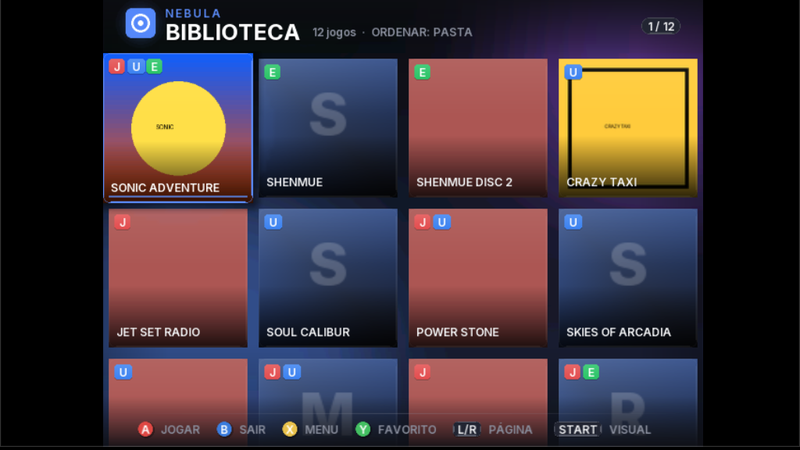
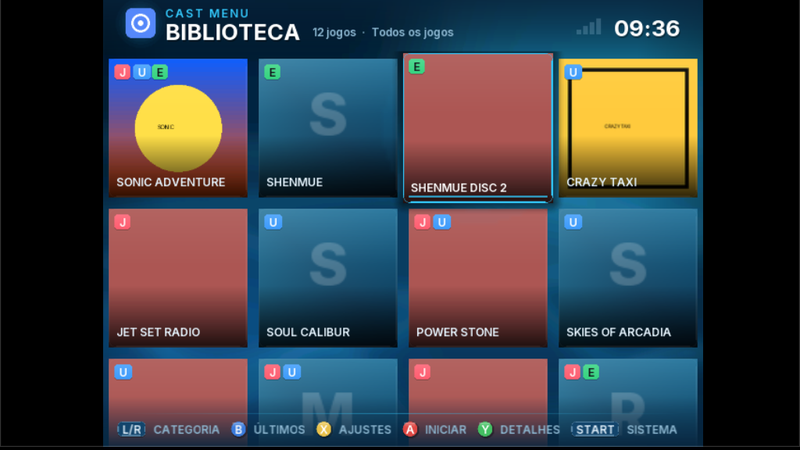
castmenu: settings arrows only cycle choices, keyboard scancode translation, OSK backspace, shorter hints, screenshots

diff --git a/src/ui/input.c b/src/ui/input.c
@@ -42,7 +42,26 @@ void input_poll(input_t *in) {
     maple_device_t *kb = maple_enum_type(0, MAPLE_FUNC_KEYBOARD);
     in->kbd_char = 0;
     if (kb) {
-        int ch = kbd_queue_pop(kb, 1); if (ch > 0 && ch < 256) in->kbd_char = ch;
+        /* raw scancode + modifiers; translate only printable keys ourselves (xlat mode hands back
+         * raw codes for arrows, which collide with ASCII letters) */
+        int raw = kbd_queue_pop(kb, 0);
+        if (raw > 0) {
+            int key = raw & 0xFF, shift = (raw >> 8) & (KBD_MOD_LSHIFT | KBD_MOD_RSHIFT);
+            static const char digits[] = "1234567890", digits_sh[] = "!@#$%^&*()";
+            if (key >= KBD_KEY_A && key <= KBD_KEY_Z) in->kbd_char = (shift ? 'A' : 'a') + key - KBD_KEY_A;
+            else if (key >= KBD_KEY_1 && key <= KBD_KEY_0) in->kbd_char = (shift ? digits_sh : digits)[key - KBD_KEY_1];
+            else if (key == KBD_KEY_SPACE) in->kbd_char = ' ';
+            else if (key == KBD_KEY_ENTER) in->kbd_char = '\n';
+            else if (key == KBD_KEY_BACKSPACE) in->kbd_char = 8;
+            else if (key == KBD_KEY_ESCAPE) in->kbd_char = 27;
+            else if (key == KBD_KEY_MINUS) in->kbd_char = shift ? '_' : '-';
+            else if (key == KBD_KEY_PERIOD) in->kbd_char = shift ? '>' : '.';
+            else if (key == KBD_KEY_COMMA) in->kbd_char = shift ? '<' : ',';
+            else if (key == KBD_KEY_SLASH) in->kbd_char = shift ? '?' : '/';
+            else if (key == KBD_KEY_SEMICOLON) in->kbd_char = shift ? ':' : ';';
+            else if (key == KBD_KEY_PLUS) in->kbd_char = shift ? '+' : '=';
+            else if (key == KBD_KEY_QUOTE) in->kbd_char = shift ? '"' : '\'';
+        }
         kbd_state_t *ks = maple_dev_status(kb);
         if (ks) {
 #define KD(k) (ks->key_states[k].is_down)

diff --git a/src/ui/ui.c b/src/ui/ui.c
@@ -376,8 +376,10 @@ static void settings_update(void) {
     }
     if (in.repeat & BTN_UP) sel_settings = (sel_settings + O_COUNT - 1) % O_COUNT;
     if (in.repeat & BTN_DOWN) sel_settings = (sel_settings + 1) % O_COUNT;
-    if (in.pressed & (BTN_A | BTN_RIGHT)) opt_change(sel_settings, 1);
-    if (in.pressed & BTN_LEFT) opt_change(sel_settings, -1);
+    int text_or_action = sel_settings == O_NICK || sel_settings == O_SERVER || opt_is_action(sel_settings);
+    if (in.pressed & BTN_A) opt_change(sel_settings, 1);
+    if ((in.pressed & BTN_RIGHT) && !text_or_action) opt_change(sel_settings, 1);
+    if ((in.pressed & BTN_LEFT) && !text_or_action) opt_change(sel_settings, -1);
     if (in.pressed & BTN_START) opt_change(O_SAVE, 1);
     if (in.pressed & BTN_B) { go(ST_BROWSE); list_rebuild_view(); browse_clamp(); }
     float ry = opt_row_y(sel_settings), vis = LIST_H - 24;

diff --git a/src/ui/osk.c b/src/ui/osk.c
@@ -21,7 +21,7 @@ int osk_update(const input_t *in) {
     /* physical keyboard */
     if (in->kbd_char) {
         if (in->kbd_char == '\n' || in->kbd_char == '\r') { active = 0; return 1; }
-        if (in->kbd_char == 8) { if (len) buf[len - 1] = 0; }
+        if (in->kbd_char == 8) { if (len) buf[len - 1] = 0; else { active = 0; return -1; } }
         else if (in->kbd_char == 27) { active = 0; return -1; }
         else if (in->kbd_char >= 32 && len < cap - 1) { buf[len] = in->kbd_char; buf[len + 1] = 0; }
         return 0;   /* a typed character must not double as a mapped button (y = cancel, space = send) */

diff --git a/src/ui/chrome.c b/src/ui/chrome.c
@@ -67,7 +67,7 @@ void draw_hints(float cx, float cy, const char *hints, int alpha) {
         char *sp = strchr(items[i], ' '); int bl = sp ? sp - items[i] : (int)strlen(items[i]);
         char b[12] = { 0 }; memcpy(b, items[i], bl > 11 ? 11 : bl);
         float gw = bl == 1 && strchr("ABXY", b[0]) ? 20 : text_width(&g_font_small, b) + 14;
-        widths[i] = gw + 4 + text_width(&g_font_small, sp ? sp + 1 : "") + 16;
+        widths[i] = gw + 4 + text_width(&g_font_small, sp ? sp + 1 : "") + 12;
         total += widths[i];
     }
     float x = cx - total / 2;
